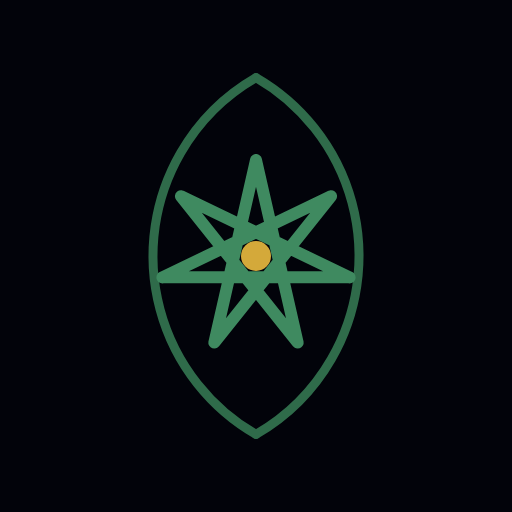
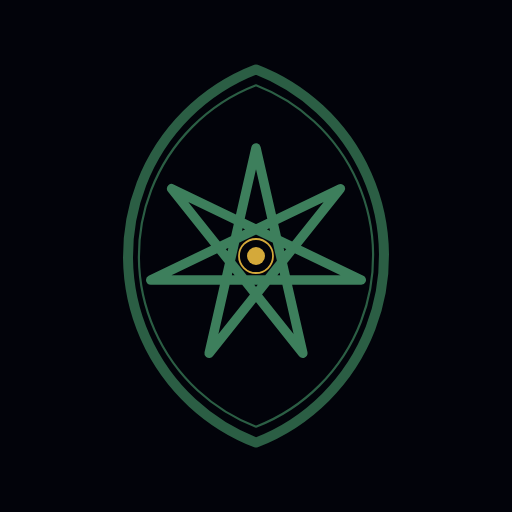
publish cosmo weather 7289c18dbd4144670ee279f3d9f5b501d294e484

Changed region(s): [[0.2188, 0.125, 0.7812, 0.875]]

diff --git a/sw.js b/sw.js
@@ -1,5 +1,5 @@
 /* siderarium — service worker. network first, cache fallback: the clock works offline after one visit. */
-const VERSION = 'sd-2026-10-16c';
+const VERSION = 'sd-2026-10-16d';
 const SHELL = ['./', './index.html', './css/style.css', './js/vendor/astronomy.browser.min.js', './js/color.js', './js/correspondences.js', './js/i18n.js',
   './js/engine.js', './js/glyphs.js', './js/render.js', './js/app.js', './manifest.webmanifest', './icons/icon-192.png', './icons/icon-512.png'];
 self.addEventListener('install', e => { e.waitUntil(caches.open(VERSION).then(c => c.addAll(SHELL)).then(() => self.skipWaiting())); });

diff --git a/DESIGN.md b/DESIGN.md
@@ -254,4 +254,4 @@ Angels of the days and hours from the Heptameron: michael, gabriel, samael, raph
 ## 17 · Name and glyph
 
 - **Siderarium**, "the room of the stars", on the pattern of planetarium. The descriptor: *macrocosmic clock visually tracking the astrological energy of the moment*. The three modes are the Hermetic pair: clock is the macrocosm, natal the microcosm, transits one laid on the other. The folder and the Instagram feed keep "cosmo weather" for now.
-- **Glyph.** The Seed of Life is gone. The icon is a vesica piscis (the door, the lens, Euclid I.1) holding the heptagram {7/3}: the seven planets in Chaldean order joined every third point give the days of the week, so the star is the clock of the week drawn from the planetary order. Forest green lines on the void, a gold point at the centre for the light of the moment.
+- **Glyph.** The Seed of Life is gone. The icon is a vesica piscis (the door, the lens, Euclid I.1) holding the heptagram {7/3}: the seven planets in Chaldean order joined every third point give the days of the week, so the star is the clock of the week drawn from the planetary order. Forest green on the void. The vesica is drawn as a double tressure, a heavy line with a hairline within, in the broader proportion of a seal's mandorla; the centre is a bezant in an annulet, the light of the moment. Heraldic by a tad, no more.
